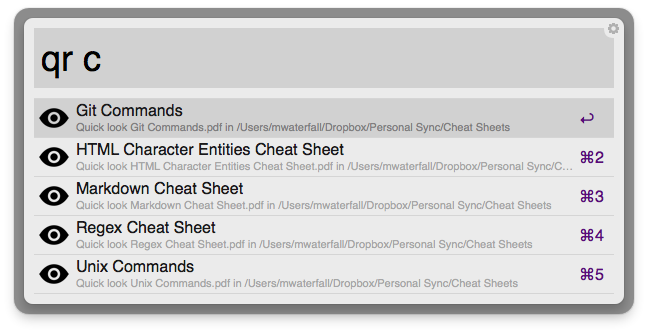
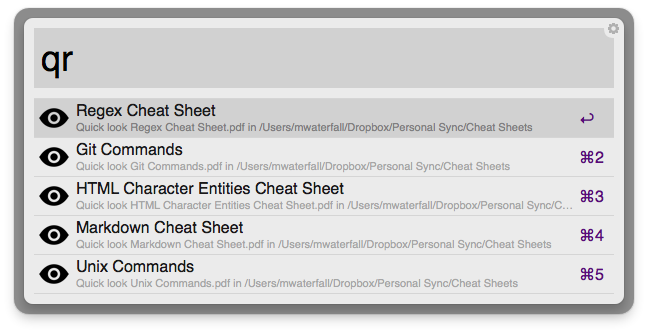
Now supports multiple directories

diff --git a/workflow/process.py b/workflow/process.py
@@ -6,32 +6,35 @@ import alfred
 
 def process(query_str):
     """ Entry point """
-    if query_str:
-        results = get_results(query_str)
-        if results is not None:
-            response = alfred_items_for_results(results)
-            xml = alfred.xml(response)  # compiles the XML answer
-            alfred.write(xml)  # writes the XML back to Alfred
+    results = get_results(query_str)
+    if results is not None:
+        response = alfred_items_for_results(results)
+        xml = alfred.xml(response)  # compiles the XML answer
+        alfred.write(xml)  # writes the XML back to Alfred
 
 
 def get_results(query_str):
     """ Return value for the query string """
     results = []
     query_parts = query_str.split(' ')
-    for root, subFolders, files in os.walk(lookup_dir):
-        for file in files:
-            if file.startswith('.'):
-                continue  # exclude hidden files
-            hit = False
-            full_path = os.path.join(root, file)
-            # Search path (excluding lookup_dir) and filename
-            search_path = full_path[len(lookup_dir):]
-            for qp in query_parts:
-                if qp.lower() in search_path.lower():
+    for lookup_dir in lookup_dirs:
+        for root, subFolders, files in os.walk(lookup_dir):
+            for file in files:
+                if file.startswith('.'):
+                    continue  # exclude hidden files
+                full_path = os.path.join(root, file)
+                hit = False
+                if not query_str:
                     hit = True
-                    break
-            if hit:
-                results.append(full_path)
+                else:
+                    # Search path (excluding lookup_dir) and filename
+                    search_path = full_path[len(lookup_dir):]
+                    for qp in query_parts:
+                        if qp.lower() in search_path.lower():
+                            hit = True
+                            break
+                if hit:
+                    results.append(full_path)
     return results
 
 
@@ -76,10 +79,18 @@ def display_message(message, subtitle=None):
 
 
 if __name__ == "__main__":
-    lookup_dir = alfred.args()[0]
-    lookup_dir = os.path.expanduser(lookup_dir)  # expand ~ if we can
-    if not os.path.isdir(lookup_dir):
-        display_message('Invalid lookup directory. Please edit in '
-                        'workflow script filter.')
+
+    # Get lookup dirs and split by :
+    lookup_dirs = []
+    for ld in alfred.args()[0].split(':'):
+        if ld:
+            ld = os.path.expanduser(ld)  # expand ~ for home if we can
+            if os.path.isdir(ld):
+                lookup_dirs.append(ld)
+    if not lookup_dirs:
+        display_message('No valid lookup directories. Please edit in '
+                        'the workflow script filter.')
+
+    # Run
     query_str = alfred.args()[1]
     process(query_str)

diff --git a/README.md b/README.md
@@ -1,13 +1,14 @@
 alfred-quick-ref
 ================================
 
-Alfred 2 workflow for quickly opening specific documents in quick look (cheat sheets, etc).
+Alfred 2 workflow for quickly referencing files (e.g. cheat sheets) using quick look
 
-To set up, you must enter the lookup directory path into the workflow's script filter. Files can be nested in further directories.
+To set up, you must enter one or more lookup directory paths into the workflow's script filter. Files can be nested in further directories.
 
 
-[Download](https://raw.github.com/mwaterfall/alfred-quick-ref/master/kippt-search.alfredworkflow)
+[Download](https://raw.github.com/mwaterfall/alfred-quick-ref/master/quick-ref.alfredworkflow)
 
 [Alfred Forum Topic](http://www.alfredforum.com/topic/.../)
 
 ![Screenshot](https://raw.github.com/mwaterfall/alfred-quick-ref/master/screenshot-1.png)
+![Screenshot](https://raw.github.com/mwaterfall/alfred-quick-ref/master/screenshot-2.png)
